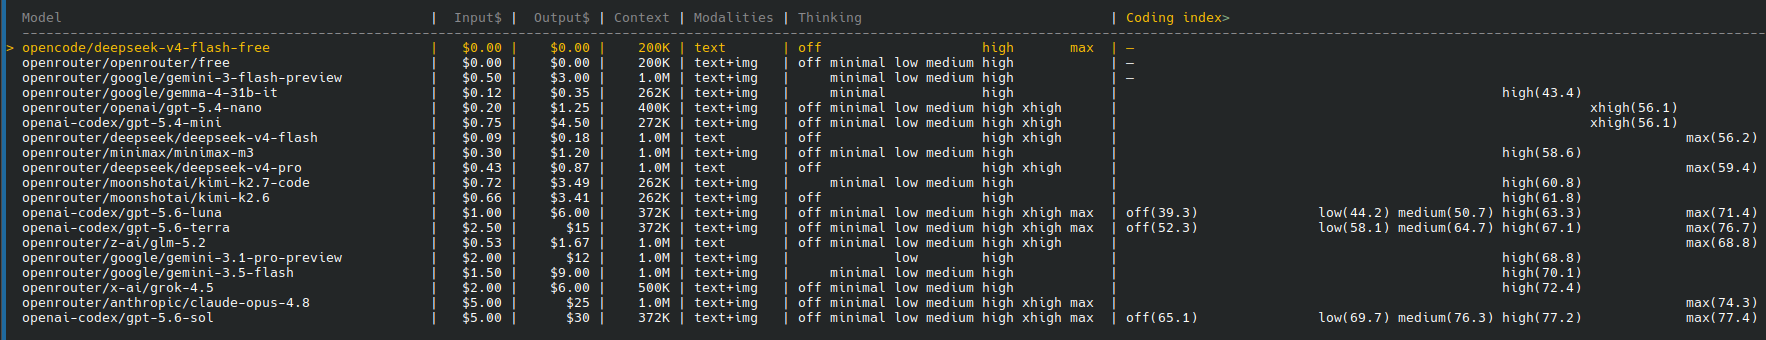
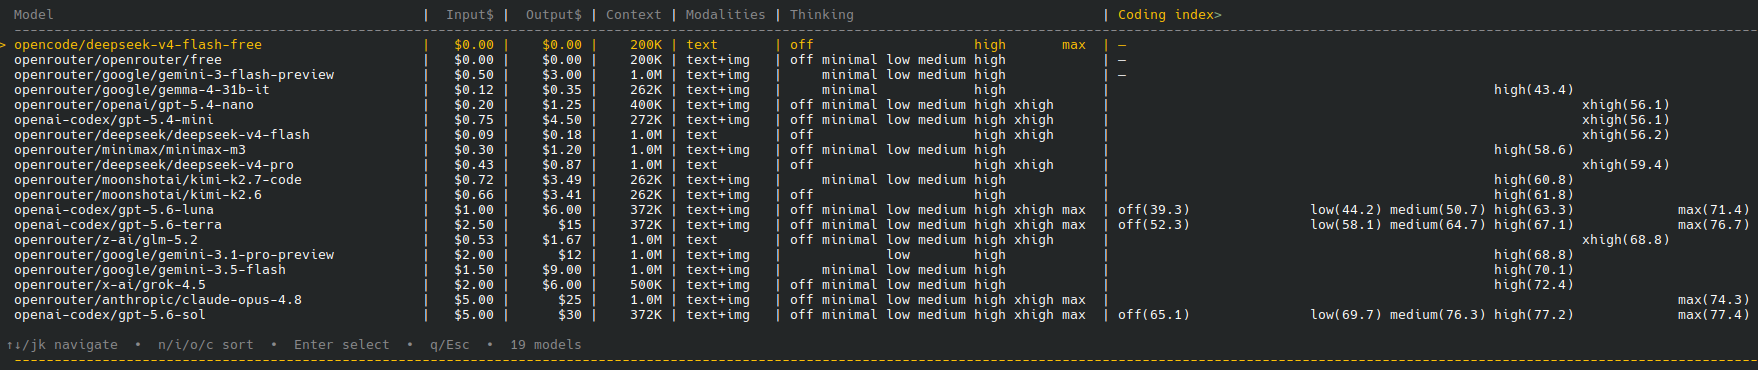
v1.2.0: spill unsupported AA coding scores into nearest pi-supported slot
When AA has coding index data at a thinking level pi doesn't support
for a given model (e.g. 'max' for GLM 5.2 where pi caps at 'xhigh'),
the score now appears at the nearest lower pi-supported slot rather
than being hidden entirely.

- formatCodingData takes optional supportedLevels set
- Walks CODING_SLOTS from highest to lowest, carrying orphan data
  from unsupported levels down to the first empty supported slot
- Fallback sortValue catches spilled data via lastPlaced
- No data ever lost — direct hits always take priority

diff --git a/index.ts b/index.ts
@@ -479,24 +479,58 @@ function findLevelMap(
 	return undefined;
 }
 
-/** Format level→CI map as display string + sort value (by "high" level CI). */
-function formatCodingData(levelMap: Map<string, number>): { display: string; sortValue: number } {
+/**
+ * Format level→CI map as display string + sort value (by "high" level CI).
+ *
+ * When `supportedLevels` is provided, the algorithm walks from highest
+ * effort (max) down to lowest (off), carrying AA data from unsupported
+ * levels and depositing it into the nearest lower slot pi supports.
+ *
+ * For example: if AA scored `glm-5-2-max` but pi caps at `xhigh` for
+ * this model, the max score is shown under the `xhigh` label. The
+ * thinking column independently reflects what pi actually supports.
+ */
+function formatCodingData(
+	levelMap: Map<string, number>,
+	supportedLevels?: Set<string>,
+): { display: string; sortValue: number } {
 	let display = "";
 	let sortValue = -1;
-	for (const [level, width] of CODING_SLOTS) {
-		const ci = levelMap.get(level);
-		if (ci != null) {
-			display += `${level}(${ci.toFixed(1)})`.padEnd(width);
-			if (level === "high") sortValue = ci;
-		} else {
-			display += " ".repeat(width);
+	let carry: number | undefined;
+	let lastPlaced: number | undefined;
+
+	for (let i = CODING_SLOTS.length - 1; i >= 0; i--) {
+		const [level, width] = CODING_SLOTS[i];
+		const direct = levelMap.get(level);
+
+		if (supportedLevels && !supportedLevels.has(level)) {
+			// Not shown — remember any AA data as carry for the nearest
+			// lower slot that pi does support.
+			if (direct != null) carry = direct;
+			display = " ".repeat(width) + display;
+			continue;
 		}
+
+		// Use direct AA data or the carry from a higher unsupported level
+		const ci = direct ?? carry;
+		if (ci != null) {
+			display = `${level}(${ci.toFixed(1)})`.padEnd(width) + display;
+			if (level === "high") sortValue = ci;
+			lastPlaced = ci;
+		} else {
+			display = " ".repeat(width) + display;
+		}
+		carry = undefined; // consumed — one spill per orphan
 	}
+
 	if (sortValue < 0) {
+		// Prioritise direct-hits for sorting, but also check spilled data
 		for (const level of ["max", "xhigh", "medium", "low", "minimal", "off"]) {
+			if (supportedLevels && !supportedLevels.has(level)) continue;
 			const ci = levelMap.get(level);
 			if (ci != null) { sortValue = ci; break; }
 		}
+		if (sortValue < 0 && lastPlaced != null) sortValue = lastPlaced;
 	}
 	return { display, sortValue };
 }
@@ -963,7 +997,7 @@ function buildRows(
 		if (aaModelData) {
 			const levelMap = findLevelMap(model.provider, model.id, aaModelData);
 			if (levelMap) {
-				const fmt = formatCodingData(levelMap);
+				const fmt = formatCodingData(levelMap, new Set(levels));
 				codingIndex = fmt.display;
 				codingSortValue = fmt.sortValue;
 			}
